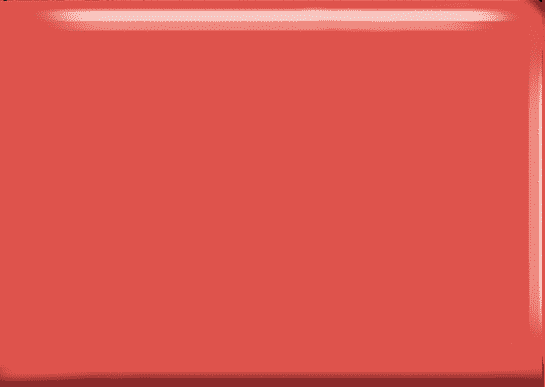
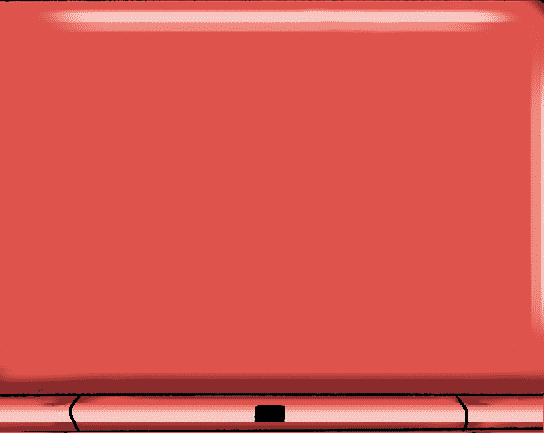
일단 설명박스에 제한 height거는 문제 아직 해결못함.

Changed region(s): [[0.0, 0.155, 1.0, 1.0], [0.0, 0.0, 0.9375, 0.093], [0.9688, 0.0, 1.0, 0.031]]

diff --git a/templates/pokedex.html b/templates/pokedex.html
@@ -13,7 +13,7 @@
         <div id ="dex_upper">
             <div class ="upper_wrapper">
                 <div class = "upper_layer">
-                    <img src="/static/image/pokedex_upper2.png">
+                    <img src="/static/image/pokedex_upper.png">
                 </div>
                 <div class = "img_box">
                     <!--닮은 포켓몬 이미지 파일 받아서 들어갈 곳-->
@@ -22,8 +22,38 @@
             </div>
 
         </div>
-        <!--도감 밑부분-->
+       <!--도감 밑부분-->
+        <div id ="dex_lower">
+            <div class = "lower_wrapper">
+                <div class = "lower_layer">
+                    <img src="/static/image/pokedex_lower.png">
+                </div>
+                <div id = "desc_box">
+                    <div class = "p_wrapper_box">
+                         <div id ="p_wrapper">
+                            <!--세부 사항들 들어갈 곳-->
+                            <p id ="name" class ="ps">포켓몬의 이름 : </p>
+                            <p id ="type" class ="ps">타입 : </p>
+                            <p id ="class" class ="ps">분류 : </p>
+                            <p id ="desc" >설명 : 태양에너지를 양분으로 큰 꽃을 피운다. 양지를 향해 이끌려가듯이 이동한다.
+                            태양에너지를 양분으로 큰 꽃을 피운다. 양지를 향해 이끌려가듯이 이동한다.
+                            태양에너지를 양분으로 큰 꽃을 피운다. 양지를 향해 이끌려가듯이 이동한다.
+                            태양에너지를 양분으로 큰 꽃을 피운다. 양지를 향해 이끌려가듯이 이동한다.
+                            </p>
+                            <hr style="color: gray" size="1px">
+                            <!--진화형 있으면 밑에글씨 나오게...?-->
+                            <p id="alert">진화형이 있군요 노란버튼을 클릭해서 확인하세요!</p>
+                         </div>
+                    </div>
+                    <div class = "bts">
+                        <button id = "evo_check" onclick = "show_evolution()"></button>
+                        <button id = "home"></button>
+                    </div>
+                </div>
+            </div>
 
+
+        </div>
     </div>
 
 {% endblock %}

diff --git a/static/css/pokedex.css b/static/css/pokedex.css
@@ -46,4 +46,75 @@
     border: 2px solid grey;
 }
 
-
+/*도감 밑부분*/
+#dex_lower{
+    background-color: rgba(203,193,201,0.49);
+    max-width: 428px;
+    height: 100%;
+    width:100%;
+    display: flex;
+    margin-top: 0;
+}
+.lower_wrapper{
+    display:flex;
+    position: relative;
+}
+.lower_layer{
+    width: 100%;
+}
+.lower_layer img{
+    width: 100%;
+}
+#dex_lower #desc_box{
+    display:flex;
+    justify-content: space-around;
+    position: absolute;
+}
+.p_wrapper_box{
+    border: 3px solid black;
+    width: 75%;
+    max-height: 300px;
+    margin-top: 7%;
+    background-color: rgba(185,238,174,0.89);
+    margin-left: 6%;
+    margin-bottom: 3%;
+    font-family: 'pokemon';
+    font-size: 18px;
+}
+#dex_lower #desc_box #p_wrapper{
+    margin-left: 5%;
+    margin-right: 3%;
+    height: 80%;
+    margin-top: 0;
+}
+#desc_box #p_wrapper .ps{
+    border-bottom: 1px solid grey;
+    height: 20px;
+    margin : 1% 0 1% 0;
+}
+#desc_box #p_wrapper #name{
+    margin-top: 3%;
+}
+#desc_box #p_wrapper .line{
+    border: 0;
+}
+#desc_box #p_wrapper #alert{
+    font-size: 9px;
+}
+.bts{
+    display: flex;
+    flex-direction: column;
+    justify-content: space-evenly;
+}
+.bts #evo_check{
+    width :30px;
+    height: 30px;
+    border-radius: 60%;
+    background-color: yellow;
+}
+.bts #home{
+    width : 30px;
+    height: 30px;
+    border-radius: 60%;
+    background-color: lawngreen;
+}
